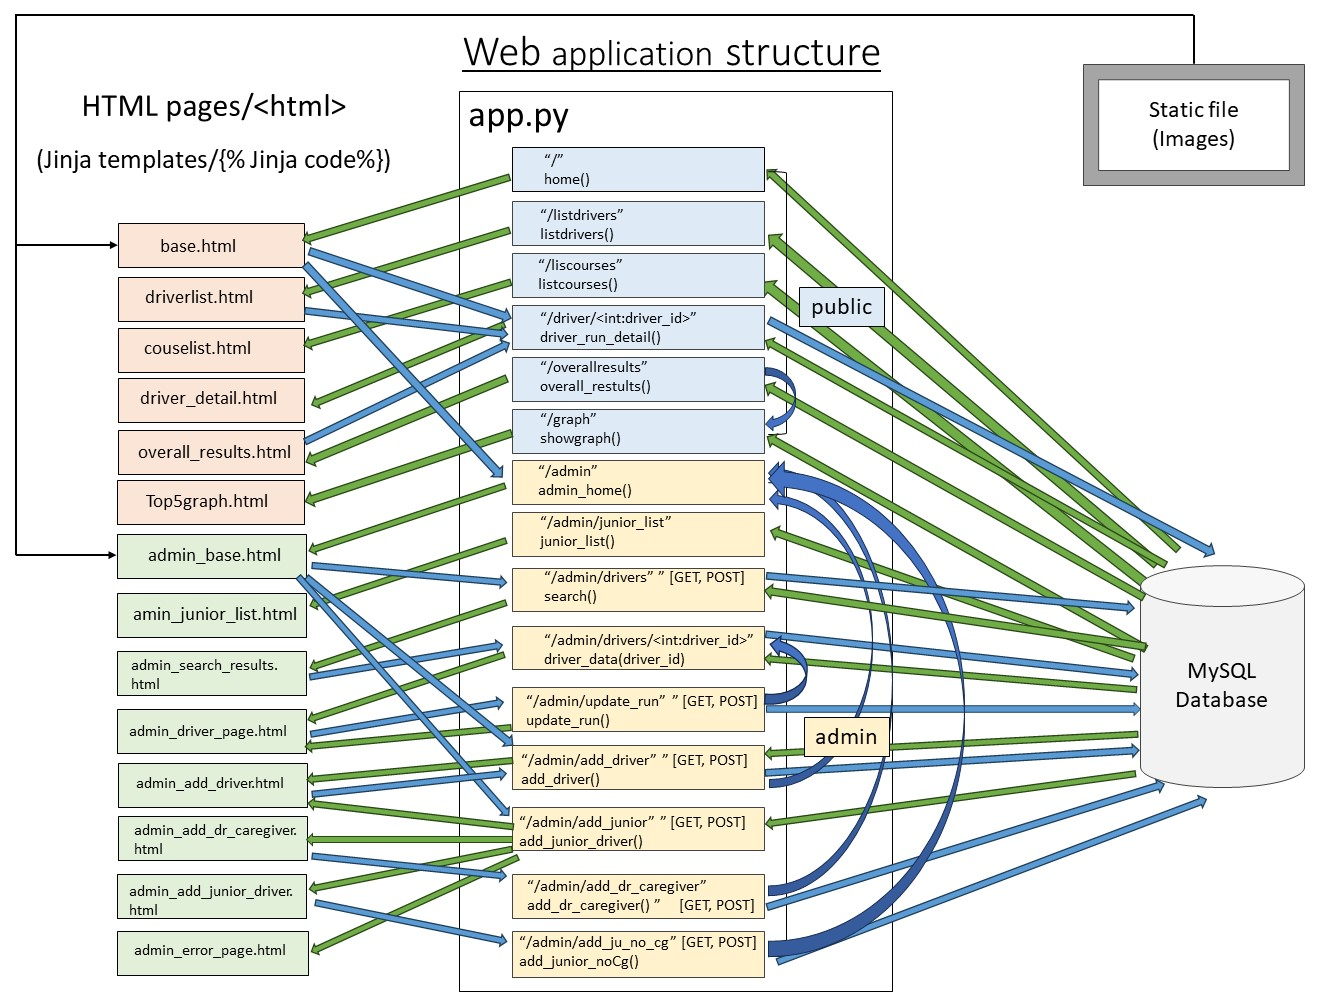
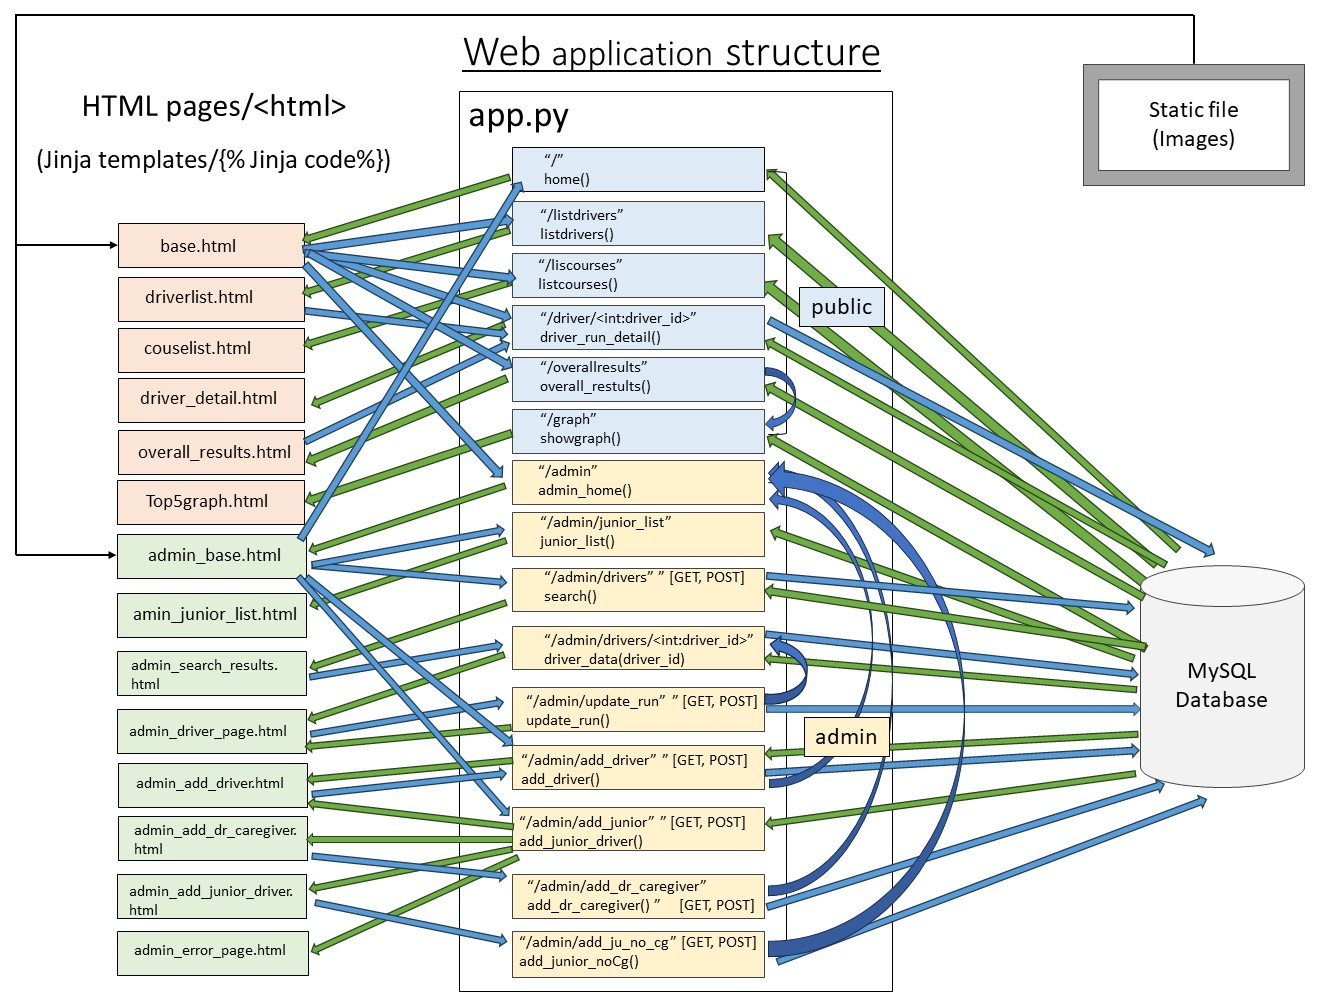
readme update

diff --git a/README.md b/README.md
@@ -18,7 +18,7 @@ My web application has totally 15 routes, 14 templates, 6 provided course images
 The routes, templates, database, and static files interact with each other to realise all the functionalities required by COMP636 Motorkhana final assignment. Functions under different routes in the 'app.py' file use MySQL queries to fetch data from the database. Jinja templates are widely used to pass data between HTML templates and routes in the 'app.py' file. HTML templates use [BootStrap](https://getbootstrap.com/) to display user friendly frontend interfaces.
 
 **Public Interface**  
-Route '/' is the home page of the public interface, fetching 'driver_id', 'first_name', and 'surname' to insert into the dropdown box in navigation bar in the 'base.html'. 'base.html' uses the Jinja template to get data passed from the 'home' function under this route and display data to users. When users select a driver from the dropdown box, Jinja templates will pass 'driver_id' to the 'driver_run_detail(driver_id)' function under route '/driver/<driver_id>'. The '/driver/<driver_id>' route will then use this driver_id to retrieve this id's details and run data. After fetching related data from MySQL database, route '/driver/<driver_id>' will pass it to 'driver_detail.html' using Jinja template. 'driver_detail.html' will then display received data to the public. Besides, the 'home()'function under route '/' also calculates 'run_total' as long as users arrive at this page. Thus, users can view latest data when heading over to other routes.
+Route '/' is the home page of the public interface, fetching 'driver_id', 'first_name', and 'surname' to insert into the dropdown box in navigation bar in the 'base.html'. 'base.html' uses Jinja templates to get data passed from the 'home()' function under this route and display data to users. When users select a driver from the dropdown box, Jinja templates will pass 'driver_id' to the 'driver_run_detail(driver_id)' function under route '/driver/<driver_id>'. The '/driver/<driver_id>' route will then use this driver_id to retrieve this id's details and run data. After fetching related data from MySQL database, route '/driver/<driver_id>' will pass it to 'driver_detail.html' using Jinja templates. 'driver_detail.html' will then display received data to the public. Besides, the 'home()'function under route '/' also calculates 'run_total' as long as users arrive at this page. Thus, users can view latest data when heading over to other routes. The 'base.html' template allows users to head to different routes by clicking buttons in the navigation bar. The routes include '/listdrivers', '/listcourse', '/driver/<int:driver_id>', '/overallresults', and '/admin'.
 
 Route '/listdrivers' retrieves data from MySQL database and passes it to the 'driverlist.html' template which displays the received data to users. If users click a driver's name on the 'driverlist.html' template, Jinja templates will pass this driver's ID to route '/driver/<driver_id>' which will trigger the 'driver_run_detail(driver_id)' function.
 
@@ -31,7 +31,7 @@ Route '/overall_results' fetches drivers' run data from the database and calcula
 Route '/graph' gets the 'overall_results' dictionary from '/overall_results' and selects the first five fast drivers, passing together with related drivers' data collected from the database to 'Top5graph.html' to display to users.
 
 **Admin Interface**  
-Route '/admin' is the home page/dashboard for the admin only. The admin can access this route by clicking a link on the public home page of route '/'. Route '/admin' interacts with the 'admin_base.html' template which displays the admin home page to the admin. 'admin_base.html' can get user input about adding a new driver, adding a new junior driver, or searching for a driver via forms. Users' responses will be captured as data passed to routes '/admin/drivers', '/admin/add_driver', and '/admin/add_junior'. Route '/admin' also gets messages passed from '/admin/add_driver', '/admin/add_dr_caregiver', and '/admin/add_ju_no_cg', and sends them back to 'admin_base.html' to display.
+Route '/admin' is the home page/dashboard for the admin only. The admin can access this route by clicking a link on the public home page of route '/'. Route '/admin' interacts with the 'admin_base.html' template which displays the admin home page to the admin. 'admin_base.html' can get user input about adding a new driver, adding a new junior driver, or searching for a driver via forms. The admin's responses will be captured as data passed to routes '/admin/drivers', '/admin/add_driver', and '/admin/add_junior'. Route '/admin' also gets messages passed from '/admin/add_driver', '/admin/add_dr_caregiver', and '/admin/add_ju_no_cg', and sends them back to 'admin_base.html' to display. Besides, the 'admin_base.html' template allows the admin to go to route '/admin/junior_list', and route '/' for the public home interface.
 
 Route '/admin/junior_list' fetches junior drivers' information from the database, and passes it to the 'admin_junior_list.html' to display to users.
 
